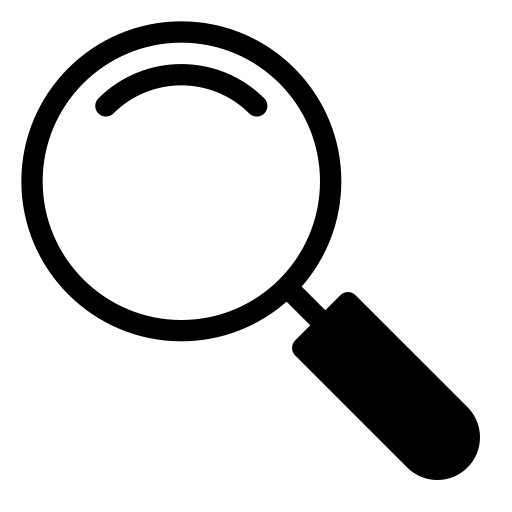
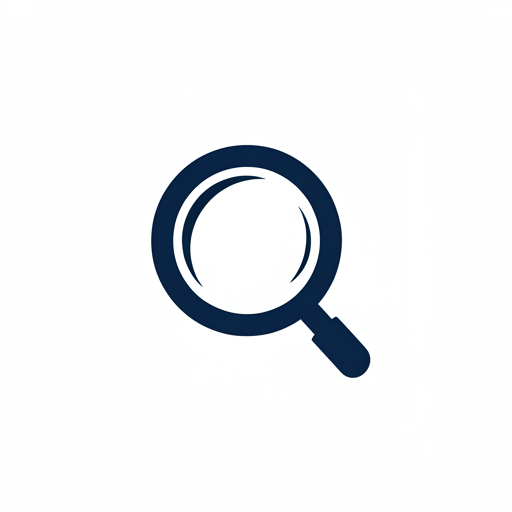
actualiz

Changed region(s): [[0.0312, 0.0312, 0.9375, 0.9375]]

diff --git a/frontend/src/app/pages/home-inversor/home-inversor.component.html b/frontend/src/app/pages/home-inversor/home-inversor.component.html
@@ -2,10 +2,10 @@
         <div class="header">
             <div class="search-bar">
                 <input type="text" placeholder="Buscar">
-                <img src="buscador.png" alt="">
+                <img src="/assets/images/buscador.png" alt="buscador" class="buscador-image">
             </div>
             <div class="user-actions">
-                <img src="chat-icon.png" alt="Chat Icon">
+                <img src="chat.png" alt="Chat Icon">
                 <button class="login-button">
                     <img src="login-icon.png" alt="Login Icon">
                     Login

diff --git a/frontend/src/app/pages/home-inversor/home-inversor.component.css b/frontend/src/app/pages/home-inversor/home-inversor.component.css
@@ -125,3 +125,8 @@ body {
 .asset-info .value {
     font-weight: normal;
 }
+
+.buscador-image {
+    width: 40px;
+    height: 40px;
+  }
